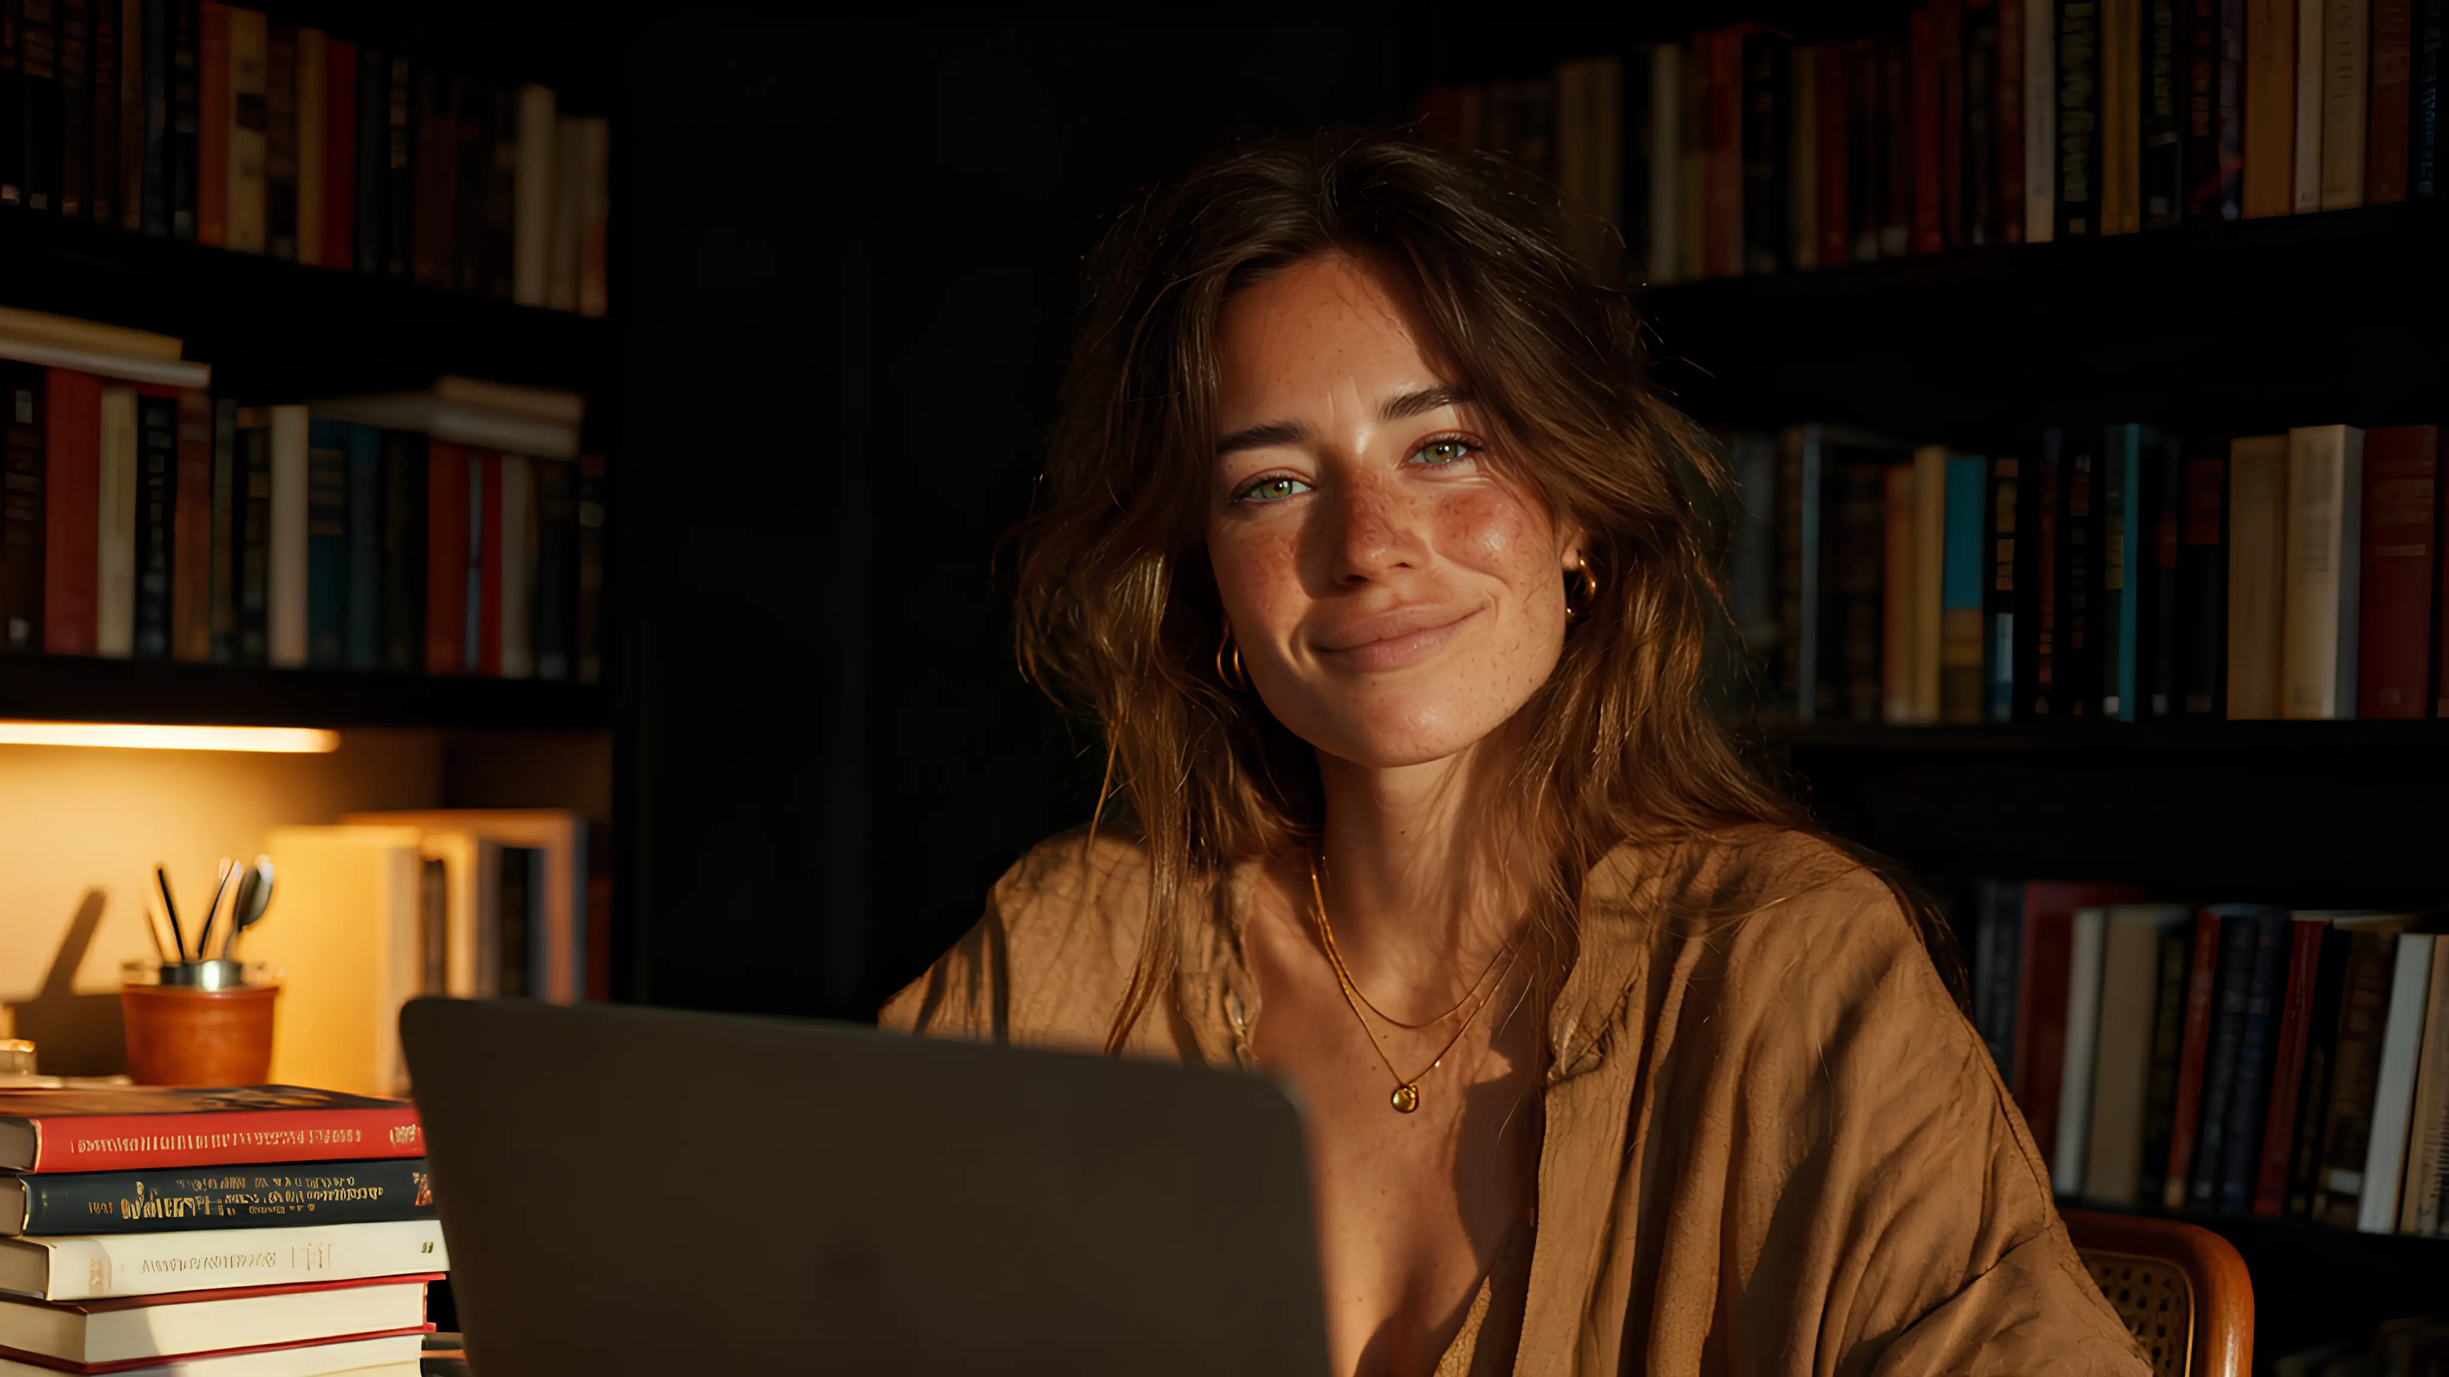
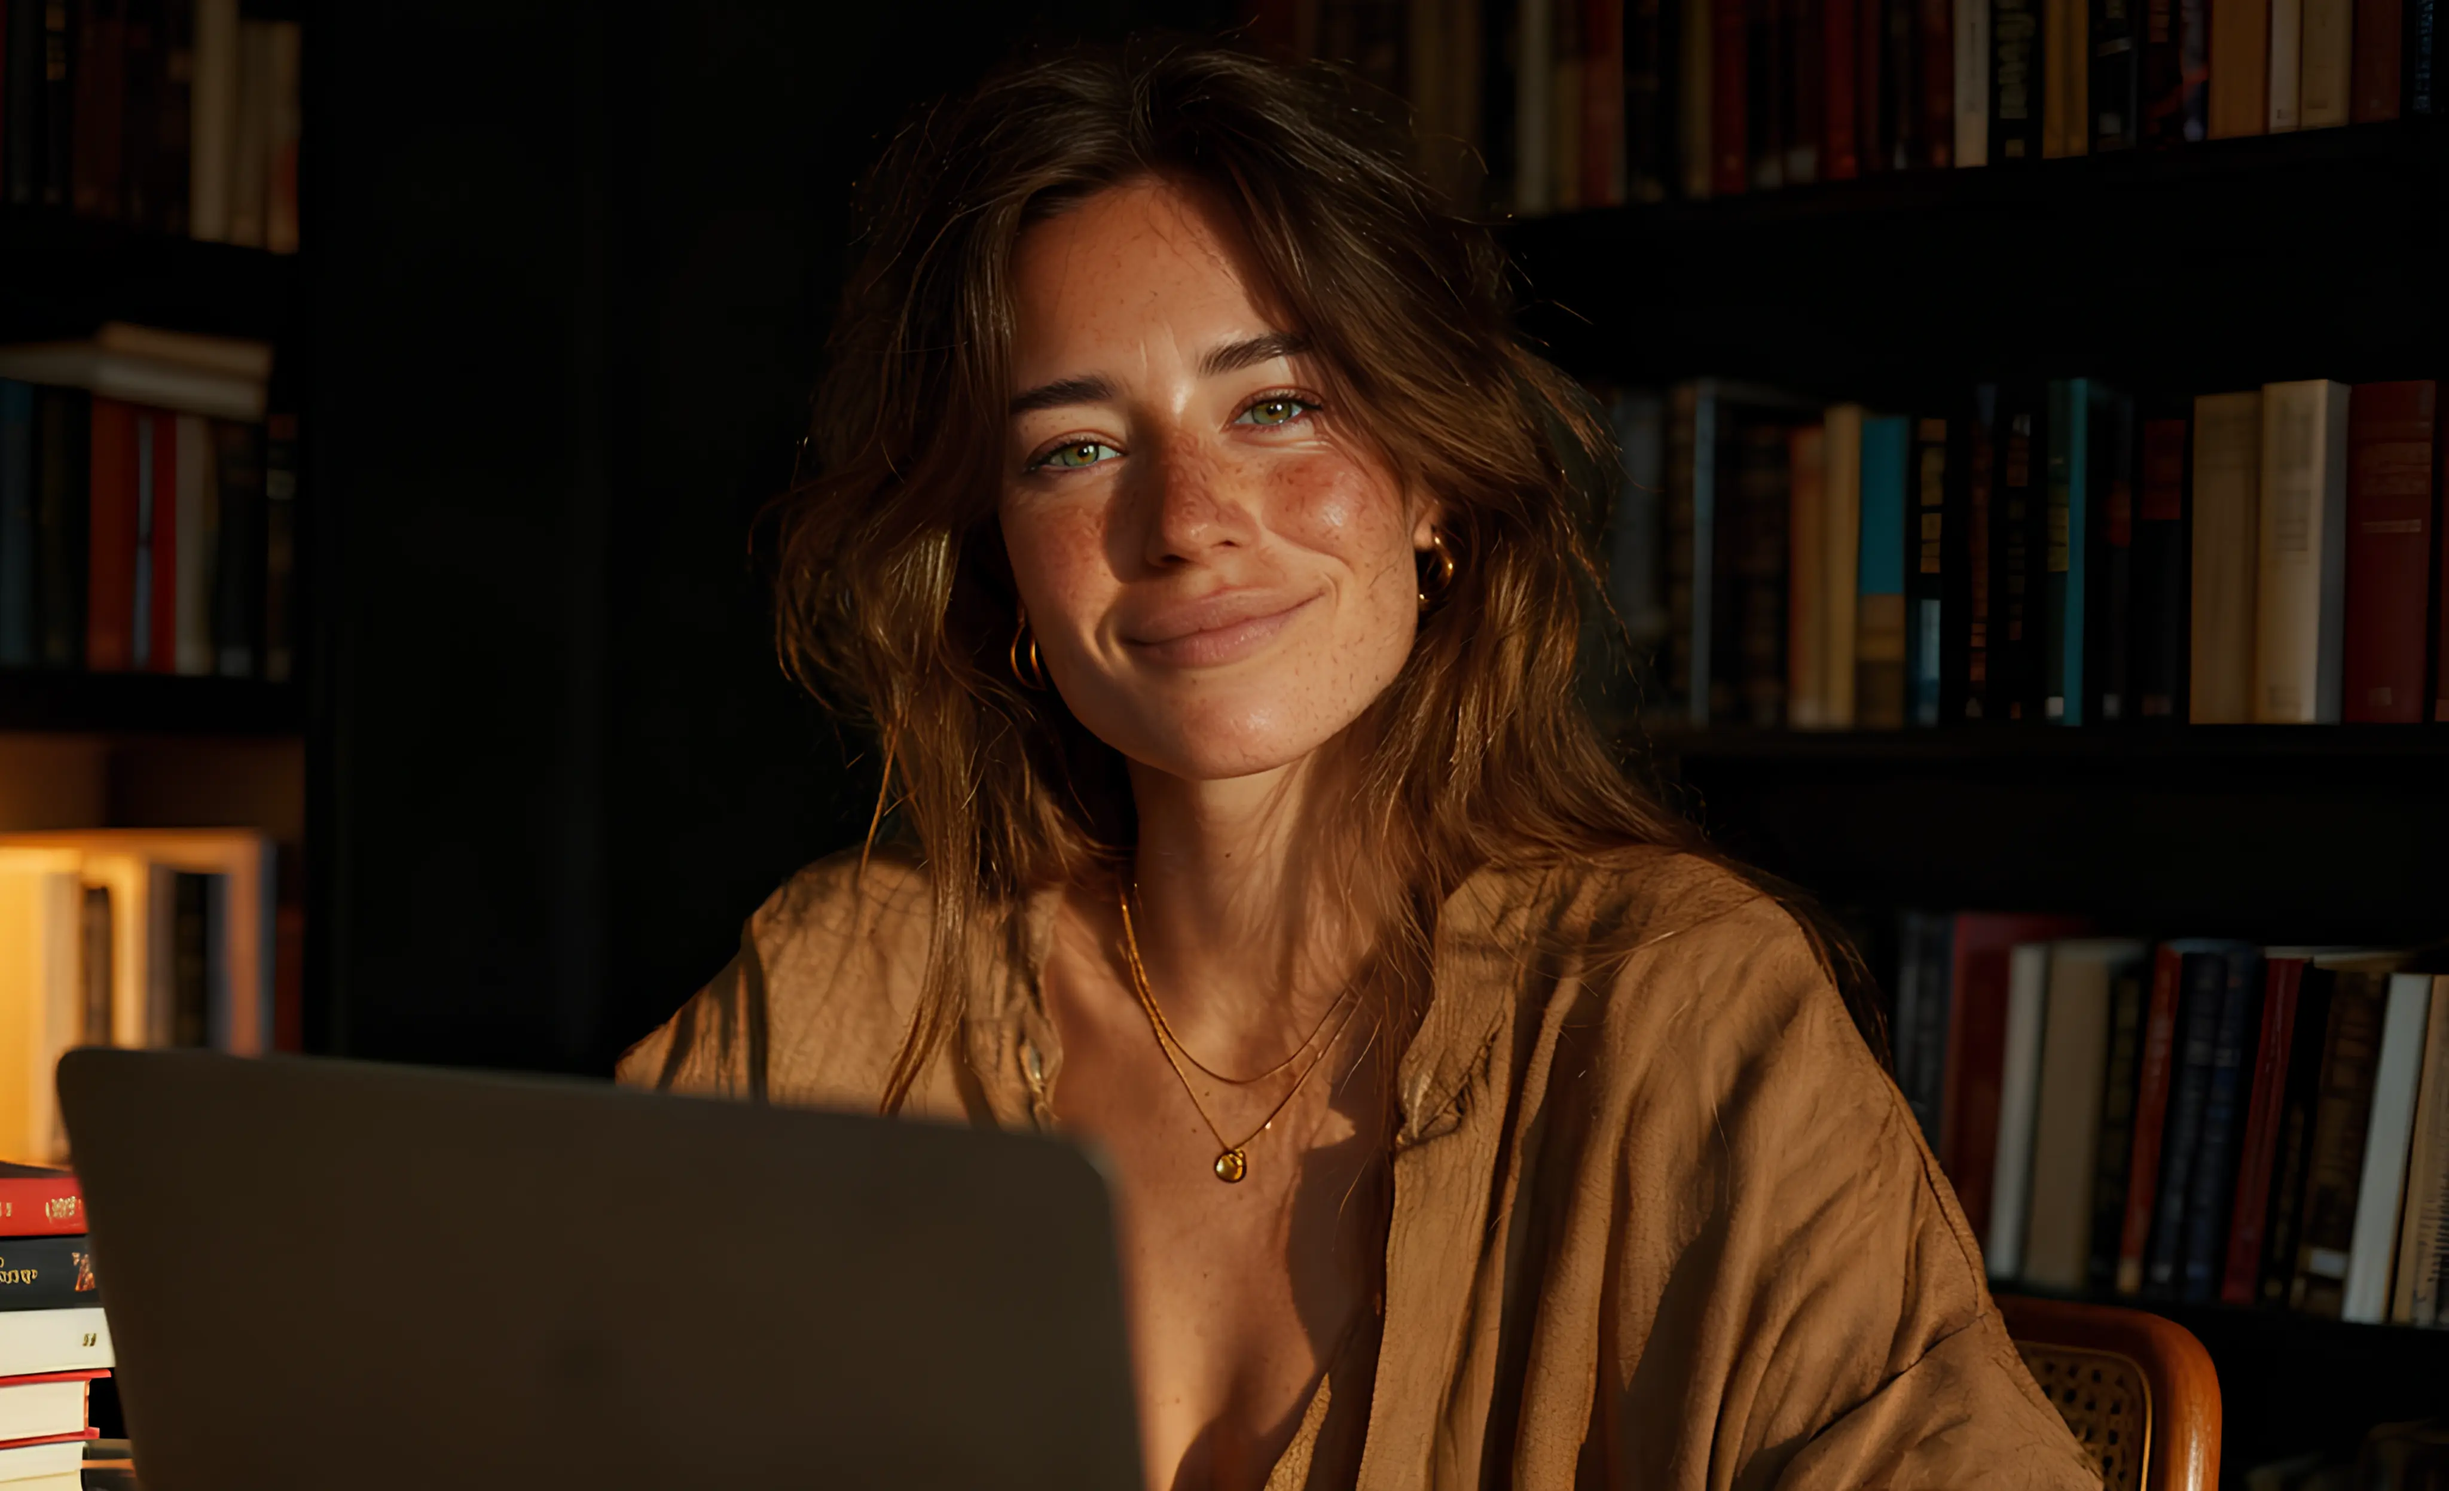
new picture

diff --git a/index.html b/index.html
@@ -5,7 +5,7 @@
   <meta charset="UTF-8" />
   <link rel="icon" type="image/svg+xml" href="/assets/favicon.svg" />
   <meta name="viewport" content="width=device-width, initial-scale=1.0" />
-  <title>Chiils - English Lessons</title>
+  <title>Chiils</title>
   <script src="https://cdn.paddle.com/paddle/v2/paddle.js"></script>
 </head>
 
